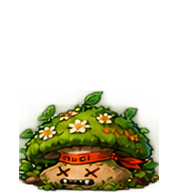
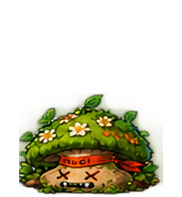
fix(arte): vegetal tem 13 quadros, nao 14 (era isso o "deslize" do final)
O vegetal continuava deslizando de lado no fim. O alinhamento estava certo
(centro do desenho variava 0,5px em todos os quadros) - o problema era a
CONTAGEM: a folha tem 13 bichos, nao 14.

Como descobri: contei as massas escuras (o corpo do cogumelo) da folha - sao
13, espacadas ~150px. Com 14 fatias iguais, uma fatia caia ENTRE dois bichos:
um quadro saia magrelo (73px contra ~130 dos vizinhos) e o pedaco que sobrava
ia pro vizinho - na animacao isso le como a pilha escorregando de lado.

Refatiado com --quadros 13 e renornalizado: 13 quadros de 182x197, largura
uniforme, centro 90,5-91 e chao 194 travados.

Conferencia nova (scripts/tmp-pente-fino nao entra no repo): varre todas as
sequencias e aponta quadro "magrelo" (largura < 60% da mediana), deslocado
(>6px do centro) ou flutuando (>2px do chao). Todas passaram - so o
normal2-03, que e da arte antiga de 5 quadros (vai ser refeita).

Changed region(s): [[0.0838, 0.4639, 0.8939, 0.9897], [0.2235, 0.7732, 0.2514, 0.8041]]

diff --git a/script/biomas.js b/script/biomas.js
@@ -48,7 +48,7 @@ const BIOMA_MORTE = {
     normal: BiomaMorte("normal", 14),
     gigante: BiomaMorte("gigante", 14),
     cristal: BiomaMorte("cristal", 15),
-    vegetal: BiomaMorte("vegetal", 14),
+    vegetal: BiomaMorte("vegetal", 13),
     metalico: BiomaMorte("metalico", 13),
     lava: BiomaMorte("lava", 14),
     gelo: BiomaMorte("gelo", 14),
